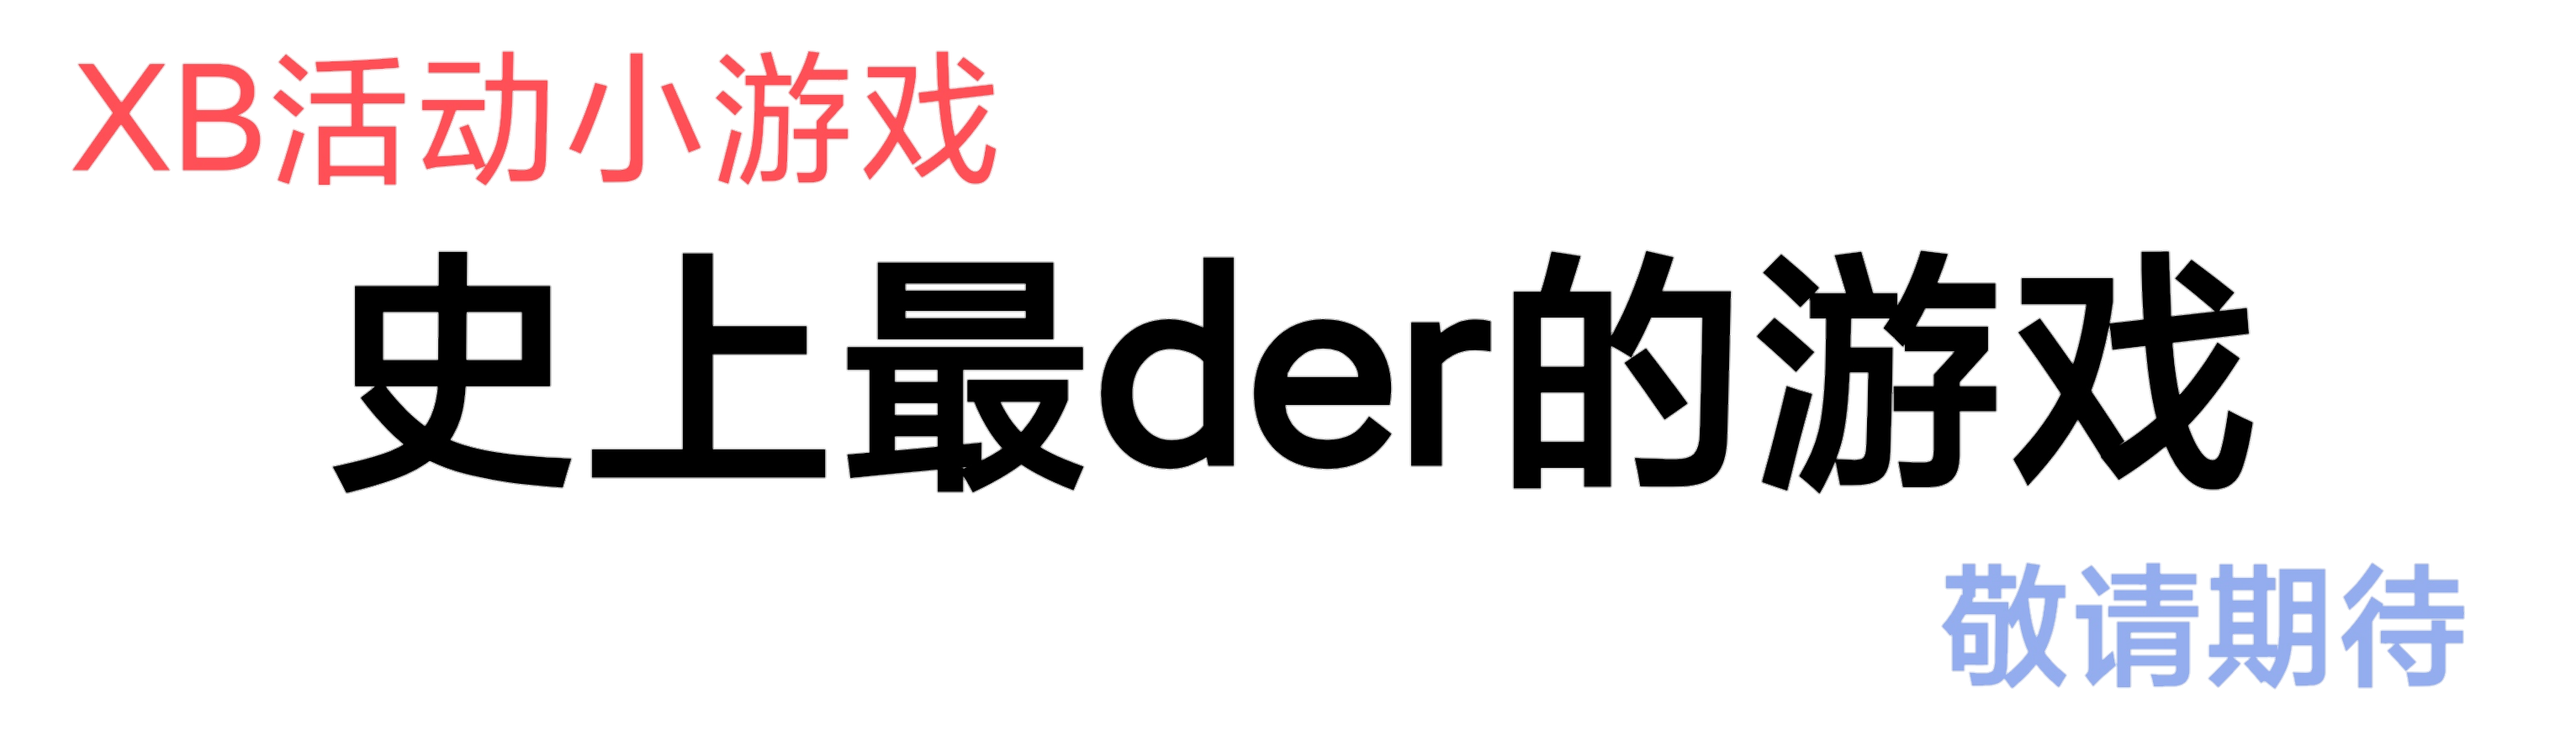
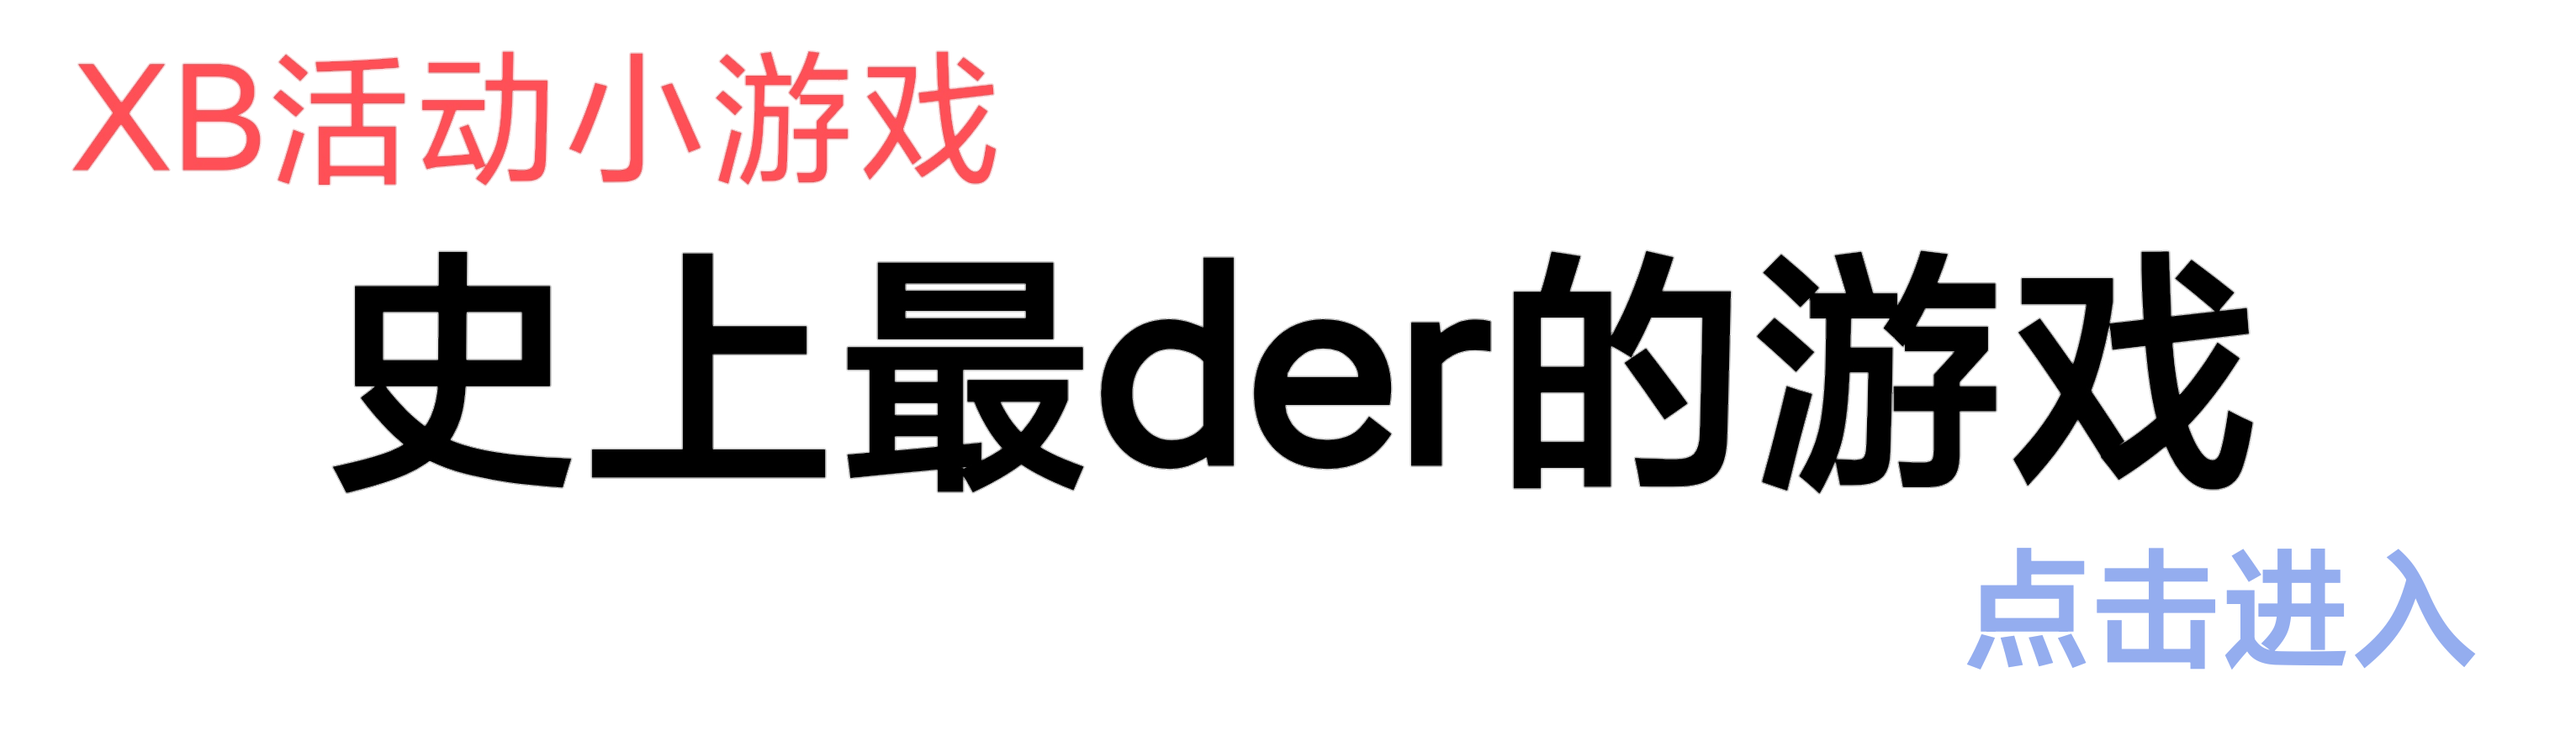
史上最der游戏上线

Changed region(s): [[0.7444, 0.7297, 0.9615, 0.9426]]

diff --git a/activity/jsactivity.js b/activity/jsactivity.js
@@ -3,7 +3,7 @@ window.open("activity/der/dergame.html")
 }
 
 function gamemg(){
-alert("目前还在开发阶段，暂时没有上线计划，敬请期待~")
+alert("目前还在开发阶段，暂定7月末上线，敬请期待~")
 }
 
 function gamefashion(){
